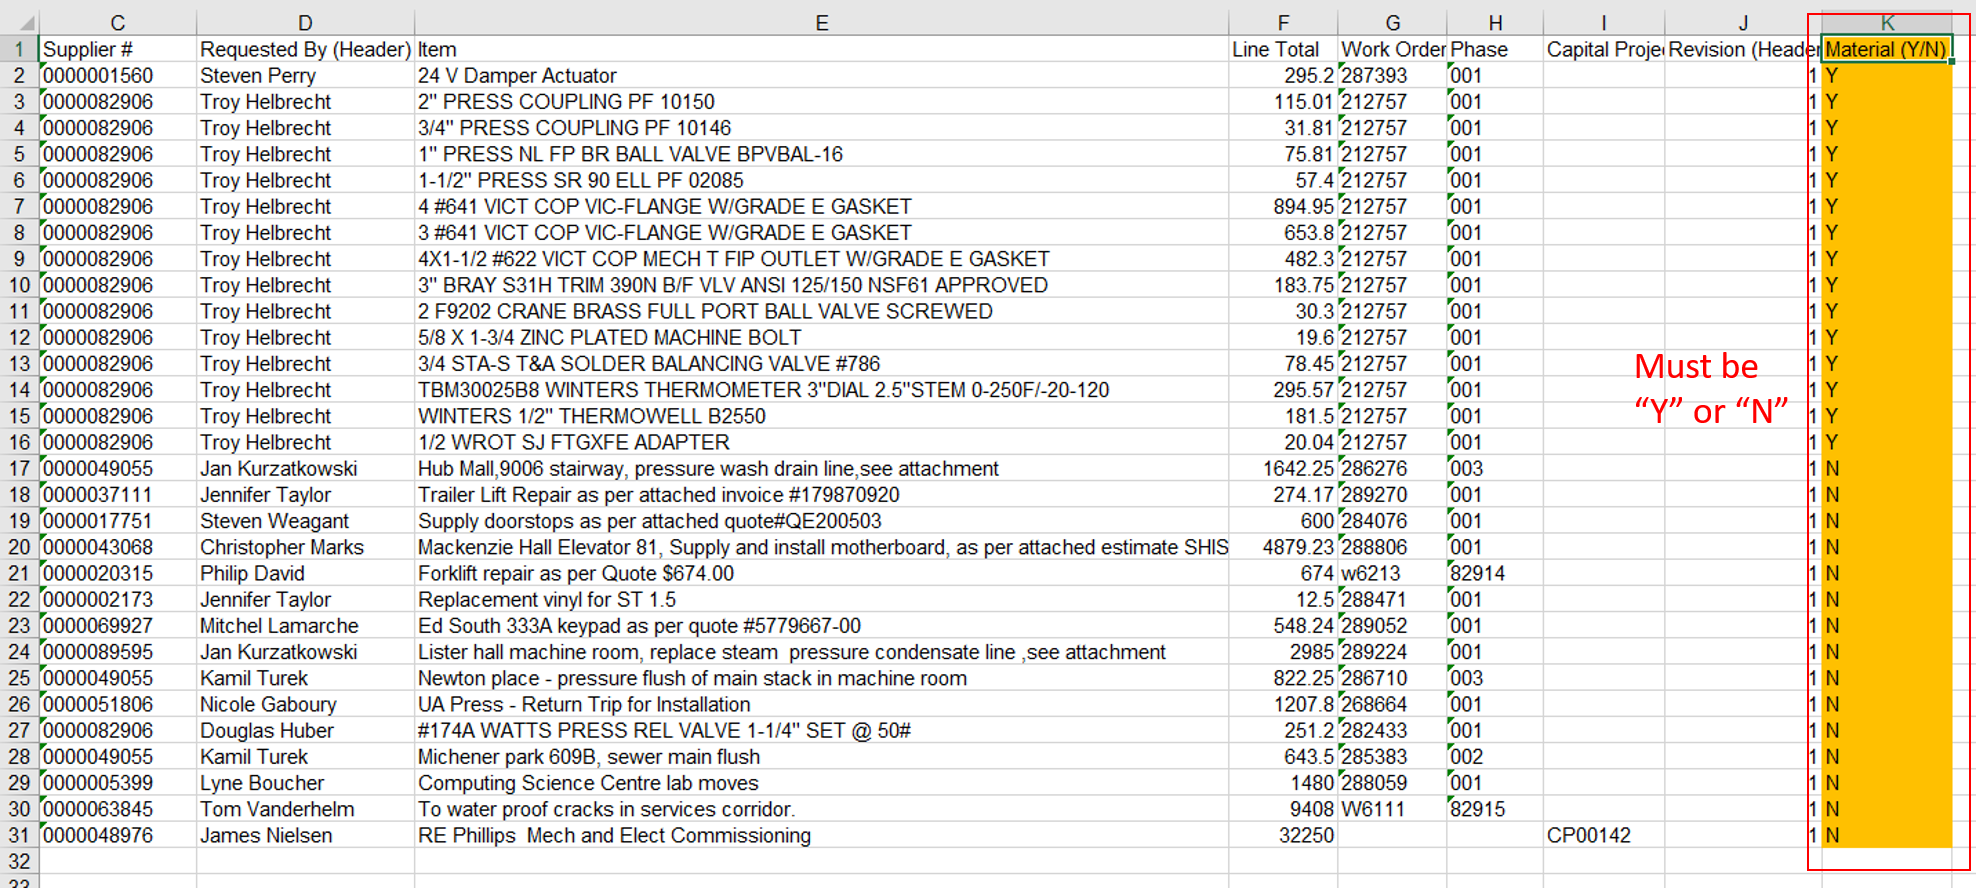
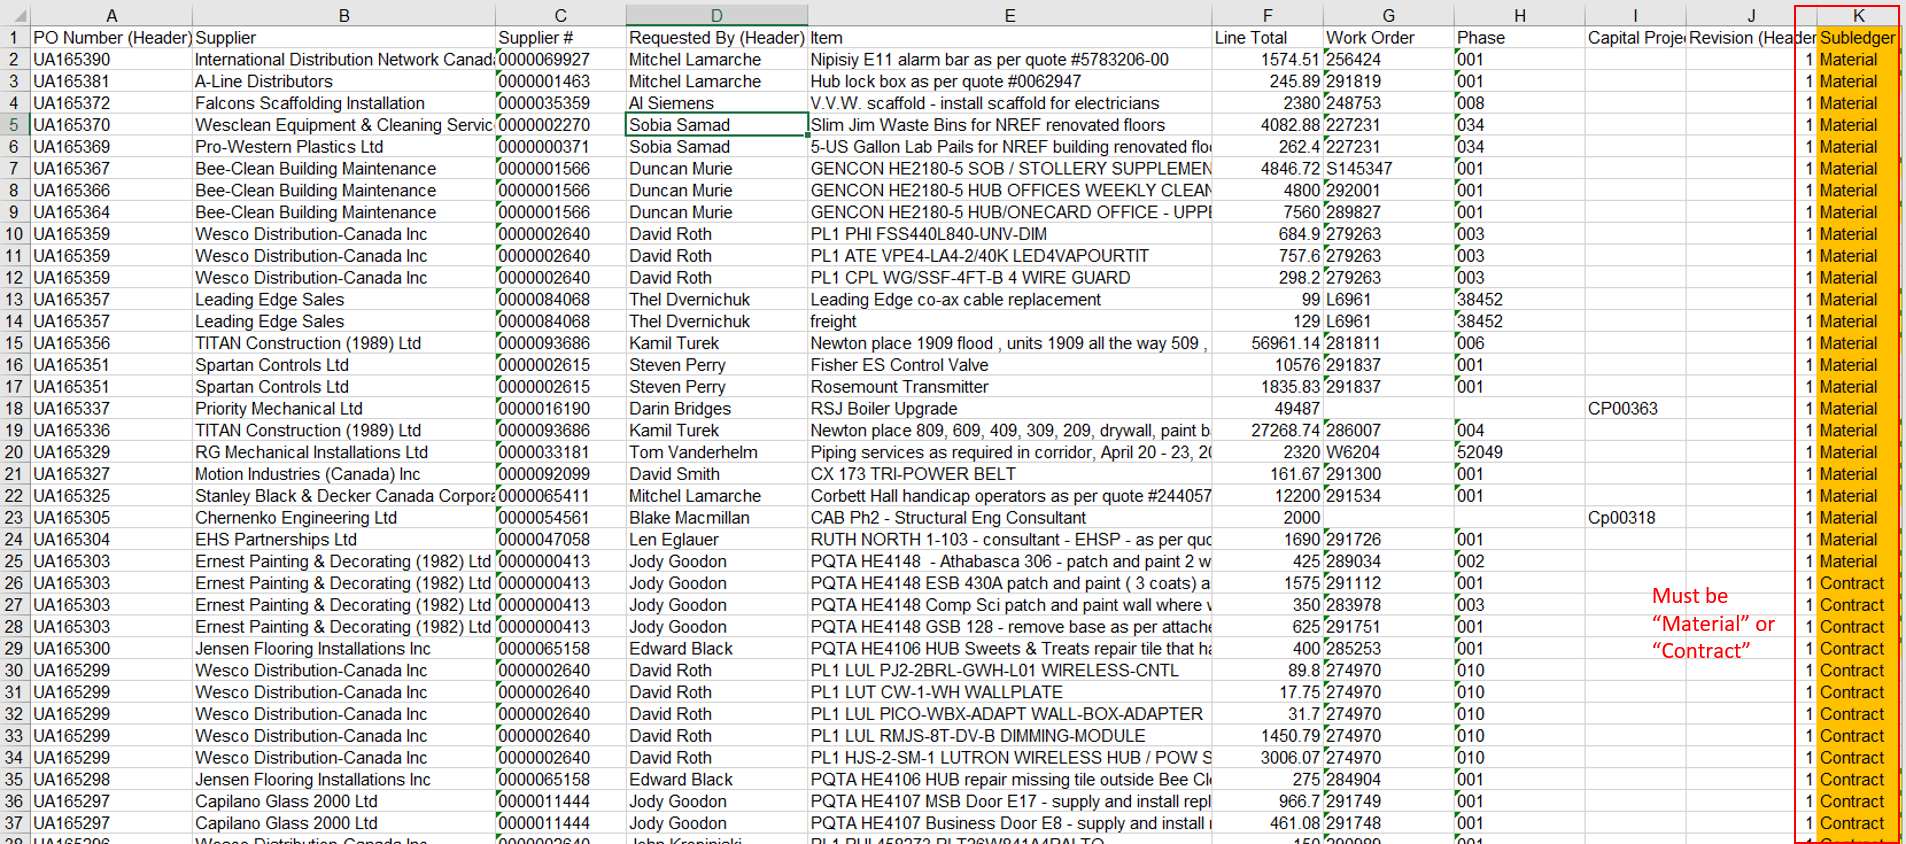
updated a two images

diff --git a/backend/README.md b/backend/README.md
@@ -16,12 +16,12 @@
 
 # Important Notes for Users
 
-1. The excel file to be processed should always be "**download.xlsx**"
-2. Before running the RPA program, the excel file should be edited. Column K's value should either be "Y" or "N", indicating if this PO's subledger is "Material" or "Contract". Otherwise, the corresponding row won't be processed.
+1. The excel file to be processed should be put in *"V:\Purchasing Astro Boy\commitment files\Input"* folder, and there should **only** be a single excel file (.xlsx) there.
+2. Before running the RPA program, the excel file should be edited. Column K's value should either be *"Material"* or *"Contract"*, indicating if this PO's subledger is "Material" or "Contract". Otherwise, the corresponding row won't be processed.
 
 ![excel edit](images/excel_edit.png)
 
-3. Always check the downloads.xlsx after the program finishes. The program should log the PO code in AiM. Column L and M are **auto generated** by this RPA program.
+3. Always check the downloads.xlsx after the program finishes. The program should log the PO code in AiM. Column L, M and N are **auto generated** by this RPA program. Please manually check those error messages.
 
    ![excel output](images/excel_output.png)
 
@@ -37,9 +37,13 @@
 
    ```conda create --name selenium_env python==3.7 –y```
 
-3. Once it's created you can activate it by running: ```conda activate selenium_env```
+3. Once it's created you can activate it by running: 
 
-4. Go to the current directory, run ```pip install -r requirements.txt``` under the activated virtual environment
+   ```conda activate selenium_env```
+
+4. Go to the current directory, run the code under the activated virtual environment
+
+   ```pip install -r requirements.txt``` 
 
 5. Setup environment variables for Windows 10 System. Typical path is :C:\Users\user_ID\AppData\Local\Continuum\miniconda3\envs\selenium_env
 
